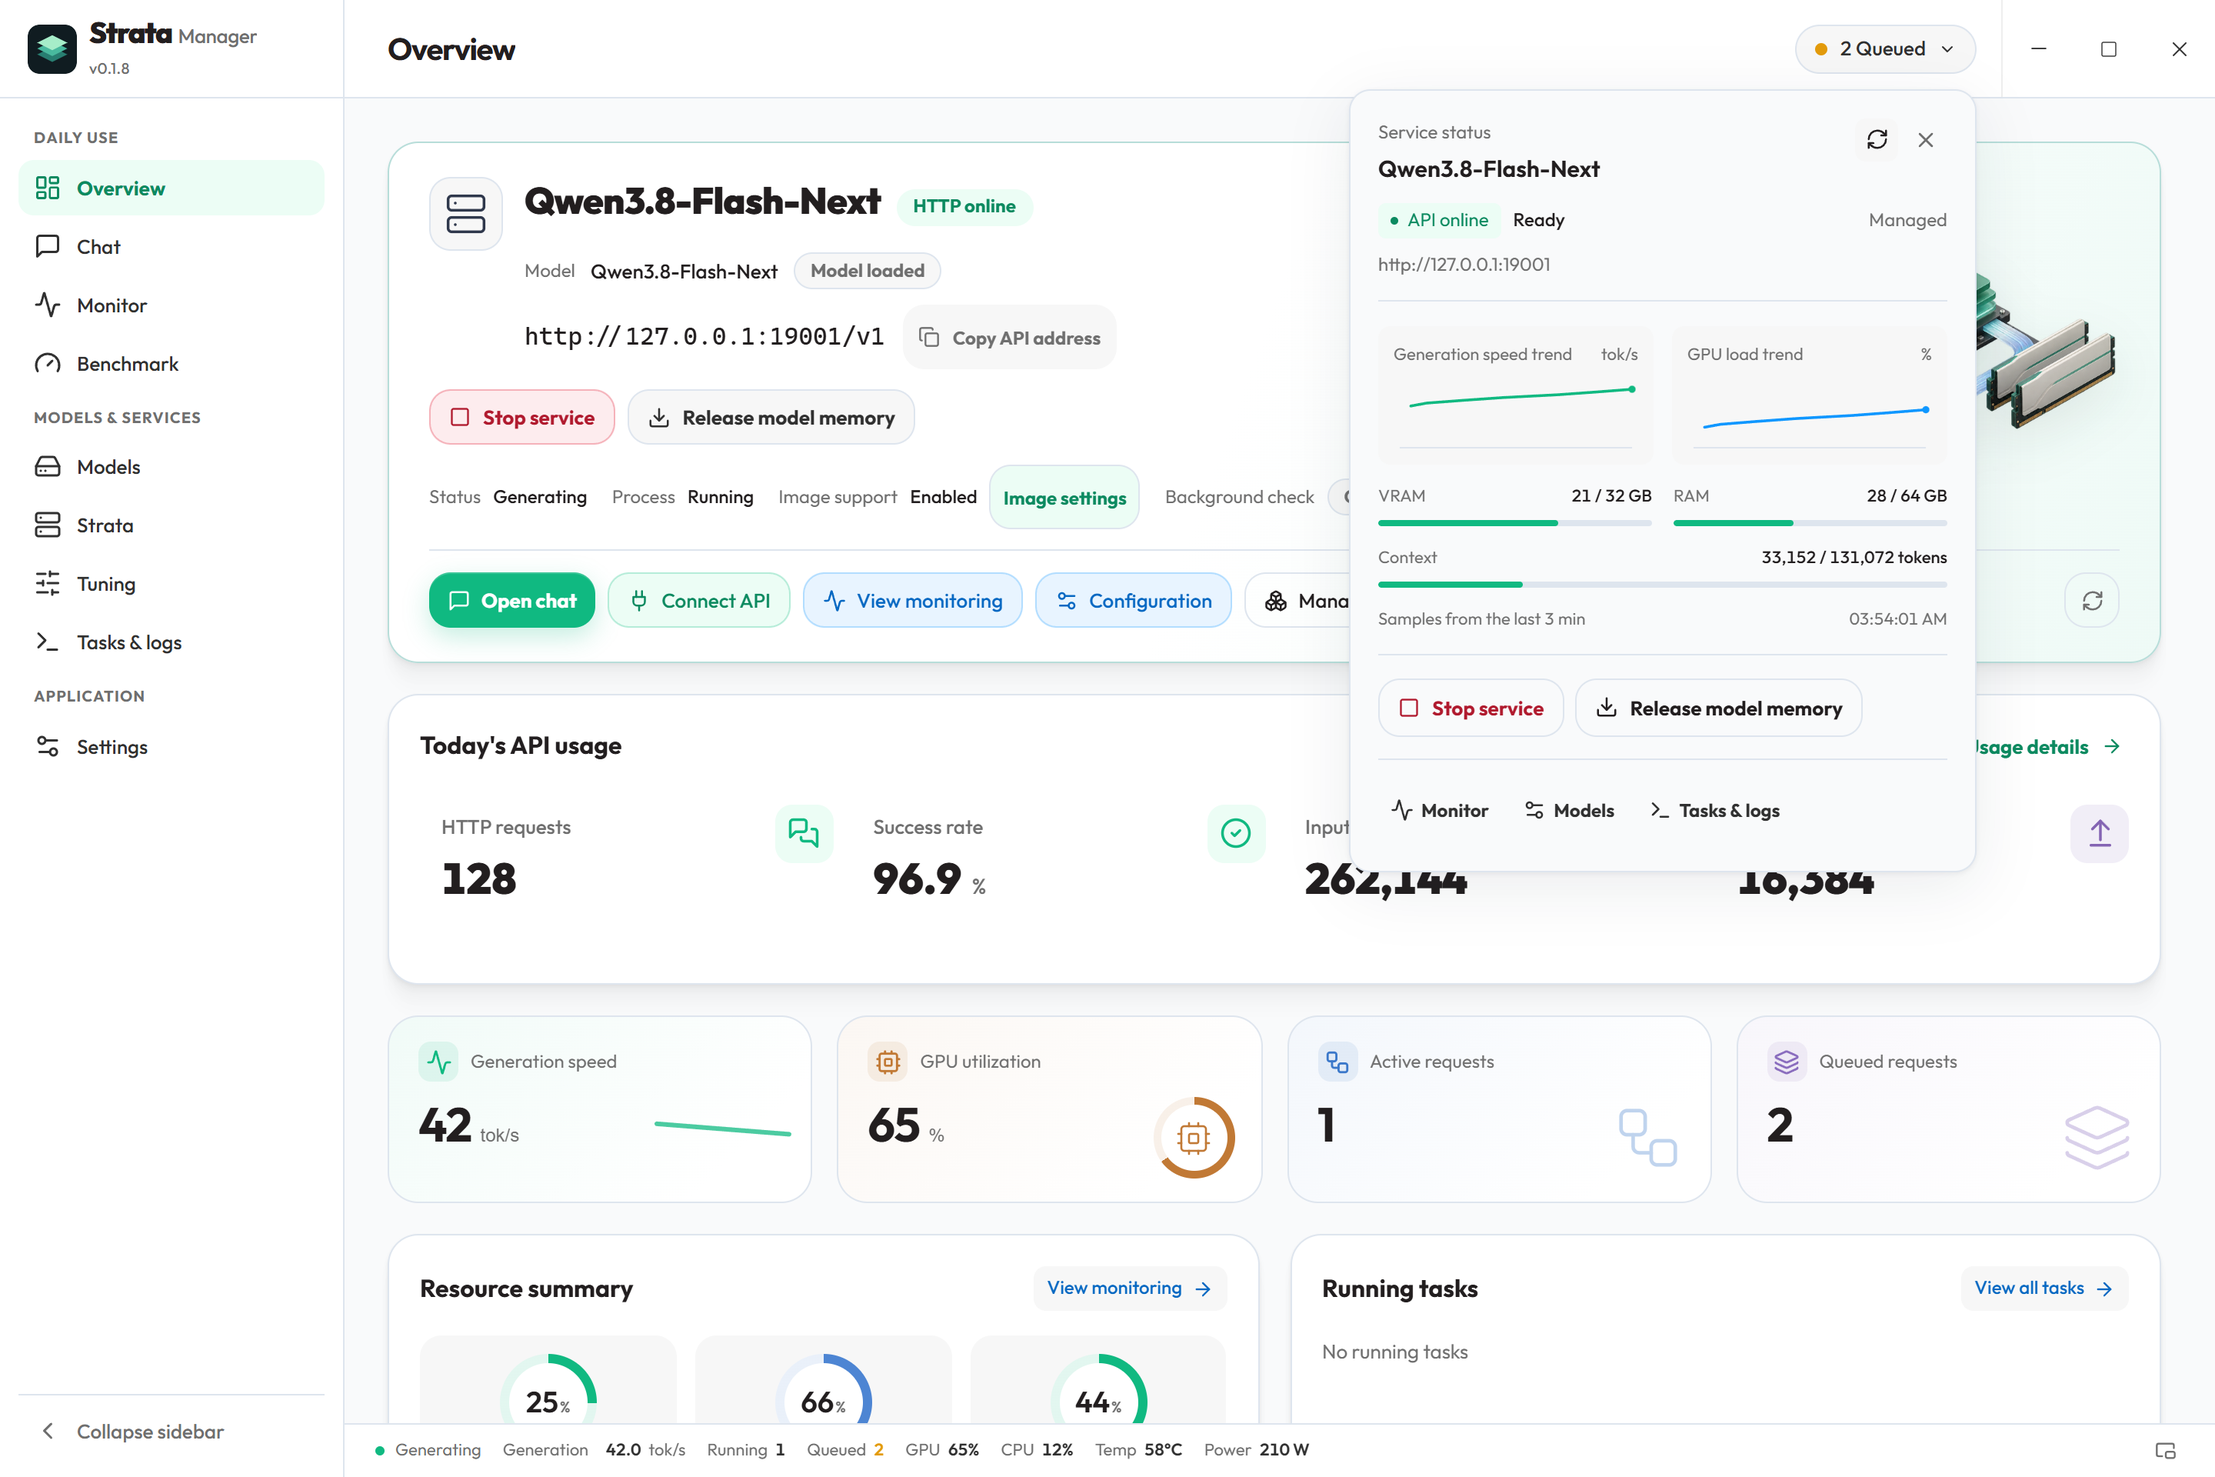
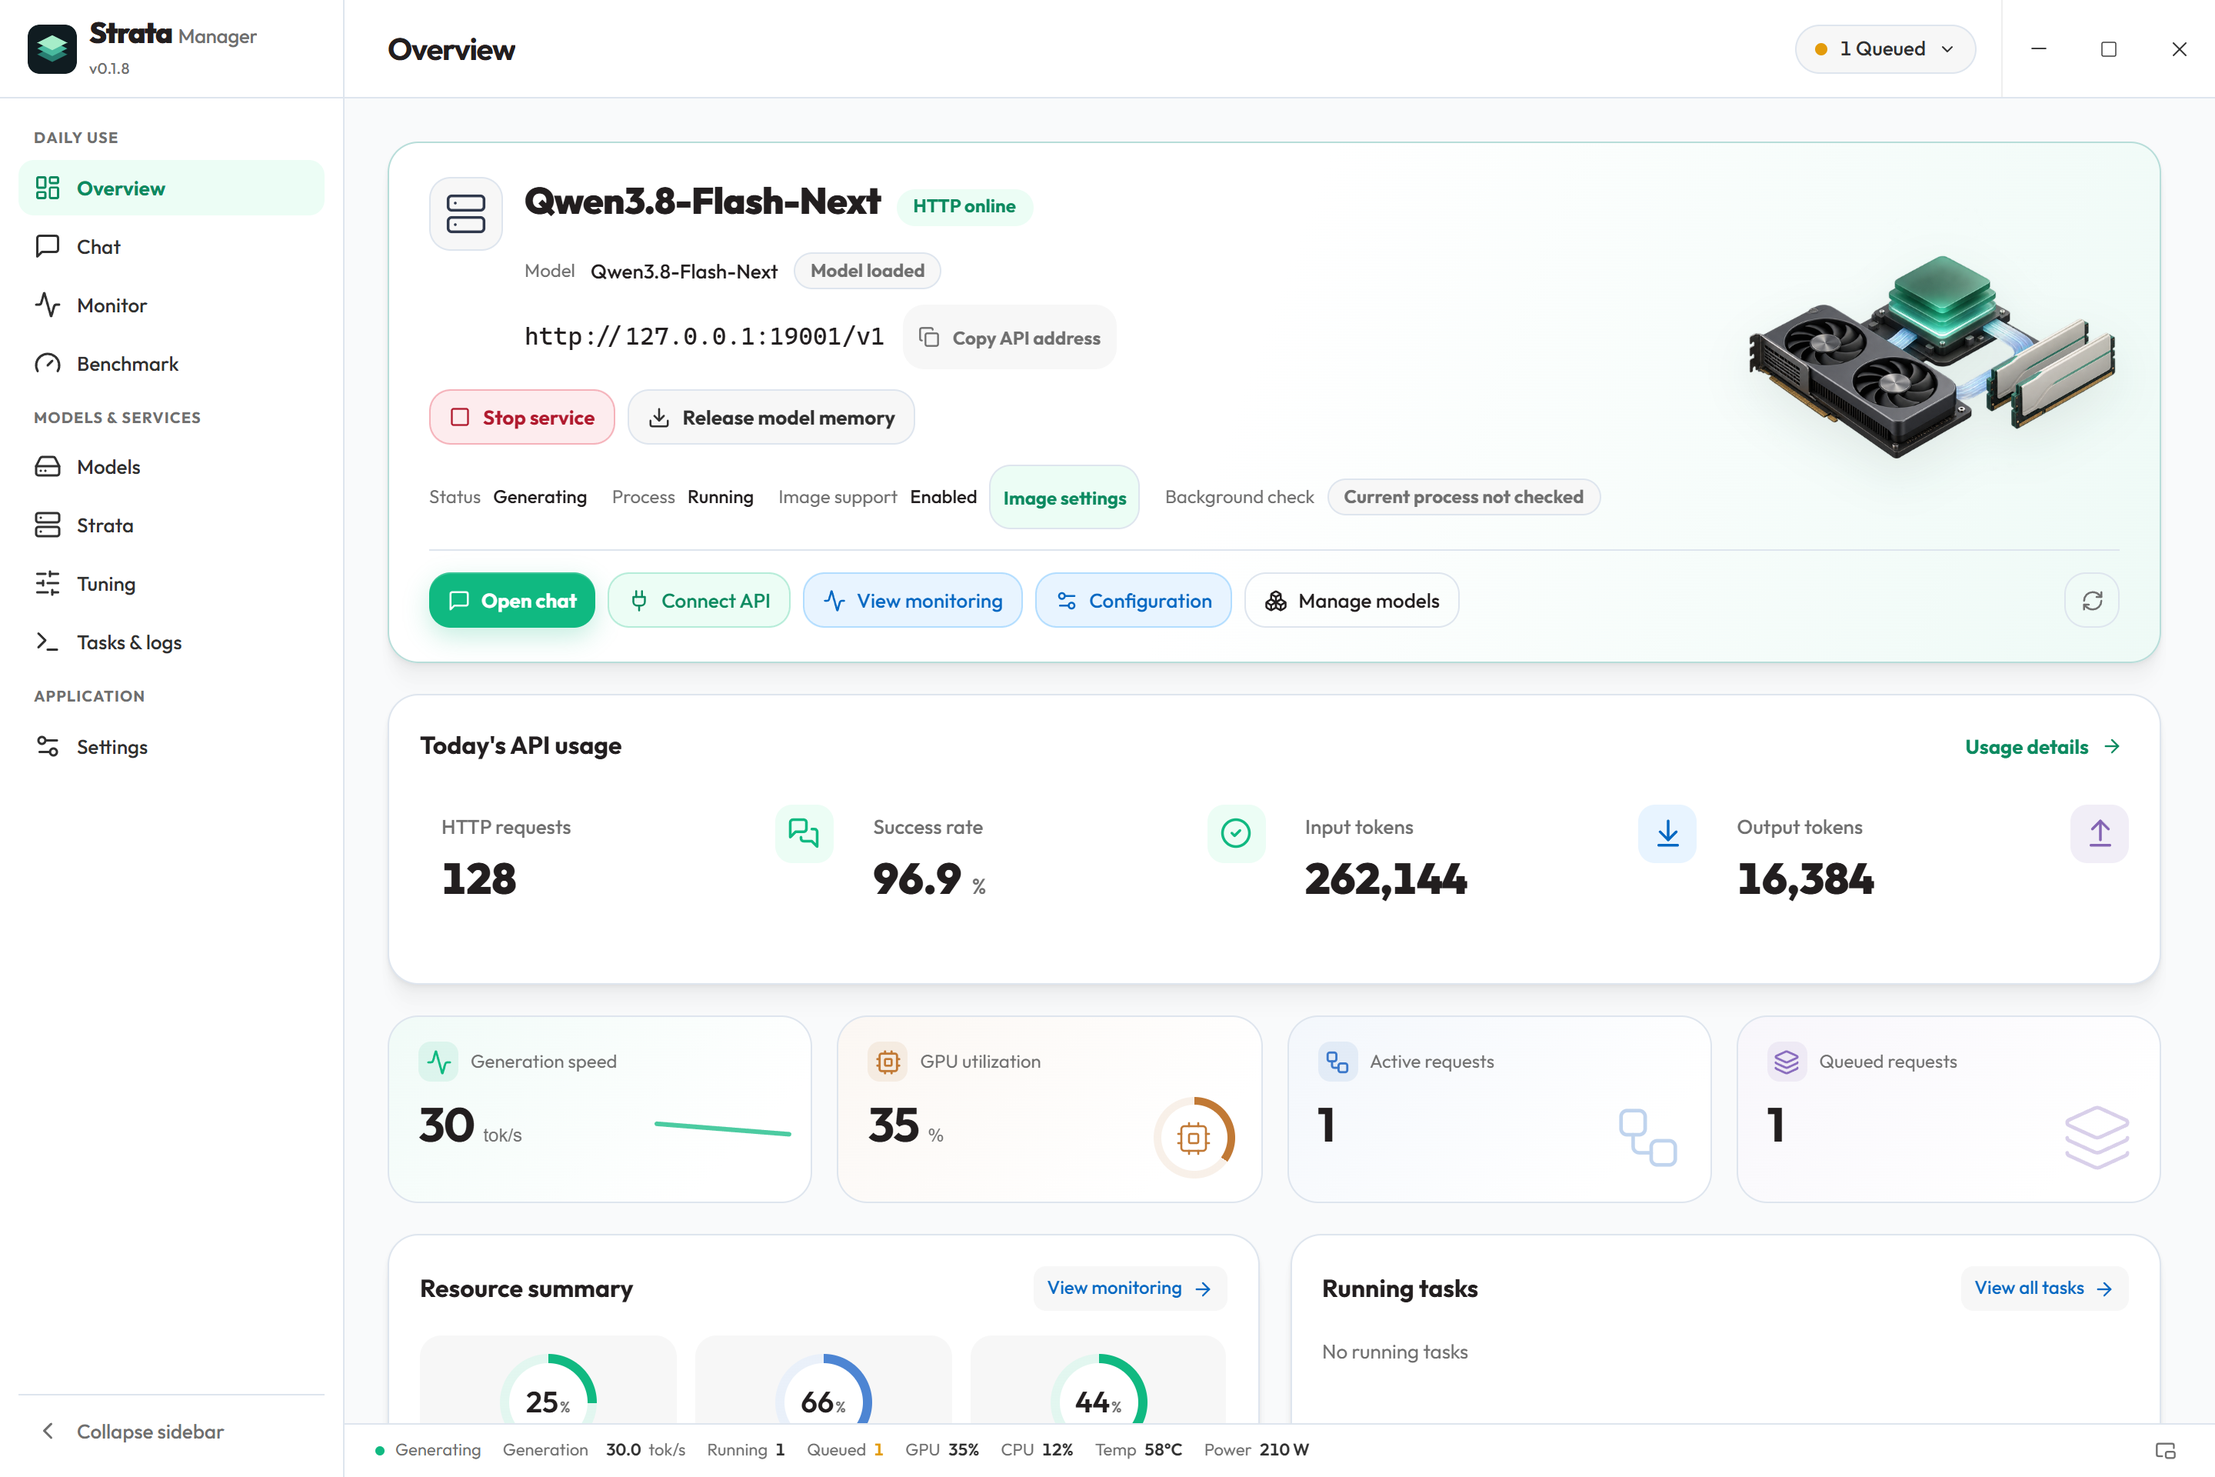
fix: satisfy current Clippy and use the normal overview cover

diff --git a/website/index.html b/website/index.html
@@ -26,7 +26,7 @@
   <meta property="og:locale" content="zh_CN" id="og-locale">
   <meta property="og:locale:alternate" content="en_US" id="og-locale-alternate">
   <meta property="og:image" content="https://hongfaqiu.github.io/strata-manager/assets/screenshots/product-cover.zh.webp" data-content-en="https://hongfaqiu.github.io/strata-manager/assets/screenshots/product-cover.en.webp">
-  <meta property="og:image:alt" content="Strata Manager 完整总览与展开的服务状态弹层" data-content-en="Strata Manager complete Overview with the service-status popover open">
+  <meta property="og:image:alt" content="Strata Manager 完整总览" data-content-en="Strata Manager complete Overview">
   <meta name="twitter:card" content="summary_large_image">
   <meta name="twitter:title" content="Strata Manager · Strata 大模型管理与监控" data-content-en="Strata Manager · Local LLM Management &amp; Monitoring for Strata">
   <meta name="twitter:description" content="集中准备 Strata 环境、管理模型与服务、共享聊天参数、配置 API/MCP 接入，并查看监控、调优和 Benchmark 报告。" data-content-en="Prepare Strata, manage models and services, share chat defaults, configure API/MCP connections and review monitoring, tuning and Benchmark reports.">
@@ -113,8 +113,8 @@
           </div>
           <p class="hero-platforms"><span class="platform-dot" aria-hidden="true"></span><span data-en="Open source · Windows / Linux x64">开源免费 · Windows / Linux x64</span></p>
         </div>
-        <a class="hero-cover open-lightbox-btn" id="hero-preview-link" href="assets/screenshots/product-cover.zh.webp?v=20261014" data-href-en="assets/screenshots/product-cover.en.webp?v=20261014" data-target="overview" aria-label="放大查看总览与服务状态弹层" data-label-en="Enlarge Overview and its service-status popover">
-          <img id="hero-preview-img" src="assets/screenshots/product-cover.zh.webp?v=20261014" data-src-en="assets/screenshots/product-cover.en.webp?v=20261014" width="2880" height="1920" alt="Strata Manager 完整总览与展开的服务状态弹层" data-alt-en="Strata Manager complete Overview with the service-status popover open" fetchpriority="high">
+        <a class="hero-cover open-lightbox-btn" id="hero-preview-link" href="assets/screenshots/product-cover.zh.webp?v=20261014" data-href-en="assets/screenshots/product-cover.en.webp?v=20261014" data-target="overview" aria-label="放大查看完整总览" data-label-en="Enlarge the complete Overview">
+          <img id="hero-preview-img" src="assets/screenshots/product-cover.zh.webp?v=20261014" data-src-en="assets/screenshots/product-cover.en.webp?v=20261014" width="2880" height="1920" alt="Strata Manager 完整总览" data-alt-en="Strata Manager complete Overview" fetchpriority="high">
           <span class="hero-preview-caption"><span data-en="0.1.8 release candidate · Pending publication · October 14, 2026">0.1.8 候选界面 · 待发布 · 2026-10-14</span><span class="preview-expand"><span data-en="Enlarge interface">放大查看</span><svg class="icon" aria-hidden="true"><use href="#icon-expand"/></svg></span></span>
         </a>
       </div>

diff --git a/website/app.js b/website/app.js
@@ -128,17 +128,17 @@ const strataReleaseCatalog = (() => {
   const screens = {
     "overview": {
       "index": "00",
-      "image": "product-cover",
+      "image": "overview",
       "zh": {
-        "title": "总览与服务状态。",
-        "description": "查看总览及展开的服务状态面板；截图使用演示数据。",
-        "alt": "Strata Manager 总览与已展开的服务状态弹层，包含模型、API 用量和运行指标的演示数据",
+        "title": "完整总览。",
+        "description": "查看模型、API 用量与资源状态；截图使用隔离示例数据。",
+        "alt": "Strata Manager 完整总览，包含模型、API 用量与资源状态的隔离示例数据",
         "badge": "总览"
       },
       "en": {
-        "title": "Overview and service status.",
-        "description": "View the overview with its service status panel open; the screenshot uses demonstration data.",
-        "alt": "Strata Manager overview with the service status popover open, showing demonstration model, API usage and runtime metrics",
+        "title": "Complete Overview.",
+        "description": "View models, API usage and resource status; the screenshot uses isolated example data.",
+        "alt": "Strata Manager complete Overview with isolated example models, API usage and resource status",
         "badge": "OVERVIEW"
       }
     },

diff --git a/apps/desktop/src-tauri/src/taskbar_layout.rs b/apps/desktop/src-tauri/src/taskbar_layout.rs
@@ -60,7 +60,7 @@ pub(crate) fn vacant_rect(
         .collect();
     // Prefer the space nearest the notification area. Sort by RIGHT edge:
     // sorting by left edges could miss a wider, nested obstacle behind one.
-    spans.sort_unstable_by(|a, b| b.1.cmp(&a.1));
+    spans.sort_unstable_by_key(|span| std::cmp::Reverse(span.1));
     let start = i64::from(bar.left) + gap;
     let mut end = i64::from(bar.right) - gap;
     for (left, right) in spans {

diff --git a/docs/screenshots/README.md b/docs/screenshots/README.md
@@ -11,9 +11,9 @@ This directory's root contains the current README and website gallery: **46 page
 | 根目录 / Root | 总览、运行环境、模型与配置、聊天、用量、调优、监控、设置、关于、Benchmark、公共聊天、连接、会话工具、更新、服务状态、下载设置、浮条，以及运行中服务、语言选择、浮条设置、场景测试和结果报告 / Overview, runtime, models and configuration, chat, usage, tuning, monitoring, settings, About, Benchmark, common chat, connections, session tools, updates, service status, download settings, floating monitor, running services, language selection, monitor settings, scenario tests and reports | [manifest.json](manifest.json) |
 | `daily-experience/` | 当前重拍的 16 张日常工作流程图：模型下载列表与详情、API 验证、服务能力、启动诊断、聊天计时、历史条件比较、API 用量 / 16 refreshed workflow images covering model downloads, API verification, capabilities, startup diagnostics, chat timing, history comparison and API usage | [独立 manifest / Separate manifest](daily-experience/manifest.json) |
 
-封面 `product-cover.zh.webp` 与 `product-cover.en.webp` 使用对应语言的 `service-status` 完整截图：总览及展开的服务状态弹层，保持原始比例，不裁剪、拼接或重画。`product-cover.webp` 是英文兼容别名；封面与页面图分别记入 manifest。
+封面 `product-cover.zh.webp` 与 `product-cover.en.webp` 直接使用对应语言的 `overview` 完整截图：正常总览，右上角服务状态保持收起，保留原始比例，不裁剪、拼接或重画。以后重拍首页封面沿用这一状态；`service-status` 独立功能图可展开弹层。`product-cover.webp` 是英文兼容别名；封面与页面图分别记入 manifest。
 
-The bilingual covers, `product-cover.zh.webp` and `product-cover.en.webp`, use the complete corresponding `service-status` screenshots: Overview with its service-status popover open, preserving the original proportions without cropping, composition or redrawing. `product-cover.webp` is the English compatibility alias. The manifest records covers separately from page images.
+The bilingual covers, `product-cover.zh.webp` and `product-cover.en.webp`, directly use the complete corresponding `overview` screenshots: normal Overview with the top-right service status closed, preserving the original proportions without cropping, composition or redrawing. Future homepage-cover captures keep this state; the separate `service-status` feature images may show the popover open. `product-cover.webp` is the English compatibility alias. The manifest records covers separately from page images.
 
 ## 采集与重跑 / Capture and reproduction
 

diff --git a/docs/VERIFICATION.md b/docs/VERIFICATION.md
@@ -4,6 +4,7 @@
 
 - 候选包含 Windows 运行中服务连接与托管保护、系统语言和十种随包资源、监控浮条布局与显示控制、自动载入进度、设置工作区及总览图形更新。此记录写于公开发布前；最终安装包以对应版本的完整 CI、签名发布和公开资源核验为准。
 - Core **434/434**、Desktop **135/135**、脚本 **23/23**；TypeScript 与前端生产构建通过。Rust 格式及 workspace/all-targets Clippy 通过。发布门禁 **258/258**；原生分片与缓存策略回归 **43/43**。
+- 第一轮候选 CI `f9fa71a3e9f7c8de26ab46f354311525a2636880` 在 Windows/Linux 的 Rust 检查被 Rust 1.99 新增的排序写法检查阻断。将内部任务栏布局的降序比较改为等价的 `sort_unstable_by_key(Reverse(...))`，保留所有门禁和排序规则；新源码必须重新完成十个 CI job，不能复用失败候选的产物。这一原生写法调整不改变已捕获的 React 界面或示例数据。
 - 本地 Windows 原生检查合计 **642 个唯一测试通过、15 项明确忽略**。首次完整运行的五项 request-capture 失败源于缺少 CI 固定上游 fixture；补齐 `fb58e0dbc8399662c0e47c76578c6e878b14f6cf` 并核验原始源码字节后，该模块 **9/9** 通过。剩余 supervisor/update-verifier **11/11** 与四个 workspace 文档测试目标分别完成。此合并结果不是一次完整运行全绿，也不是 CI 或安装包验收；本地汇总保存在 `output/release-v0.1.8/native-verification-aggregate.json`。
 - Windows ignored 清单由原十四项增加为十五项，仅登记新增的“用户显式指定真实运行服务的只读所有者验收”。Linux 七项、全部已有测试、严格清单比对、超时与分片规则保持不变。实际 Windows libtest 枚举 **657 项**，与本轮清单完全一致。
 - 固定 Strata 0.1.43.1 MockEngine HTTP observer **36/36**、自动服务连接浏览器 **3/3**、系统语言浏览器 **18/18** 通过；均使用隔离数据或临时目录，未通过这些用例启动真实模型。

diff --git a/README.md b/README.md
@@ -25,9 +25,9 @@
 
 **Strata Manager is an open-source desktop management app for [Niko1221/Strata](https://github.com/Niko1221/Strata), a local large language model inference engine.** It brings runtime setup, model configurations, service controls, chat, monitoring, tuning and benchmarking into one workspace. Existing supported model weights stay in place.
 
-[![Strata Manager overview with the service-status popover open](docs/screenshots/product-cover.en.webp)](https://raw.githubusercontent.com/hongfaqiu/strata-manager/main/docs/screenshots/product-cover.en.webp)
+[![Strata Manager complete Overview with the top-right service status closed](docs/screenshots/product-cover.en.webp)](https://raw.githubusercontent.com/hongfaqiu/strata-manager/main/docs/screenshots/product-cover.en.webp)
 
-<sub>0.1.8 release candidate interface, refreshed on October 14, 2026. Publication is pending. Screenshots use the actual application and components with isolated example data; displayed values are not inference results or benchmarks. Click to view the original.</sub>
+<sub>0.1.8 release candidate interface, refreshed on October 14, 2026. The homepage cover shows the complete Overview with the top-right service status closed. Publication is pending. Screenshots use the actual application and components with isolated example data; displayed values are not inference results or benchmarks. Click to view the original.</sub>
 
 ## What is Strata, and what does Manager do?
 

diff --git a/README.zh-CN.md b/README.zh-CN.md
@@ -25,9 +25,9 @@
 
 **Strata Manager 是面向 [Niko1221/Strata 本地大模型推理引擎](https://github.com/Niko1221/Strata) 的开源桌面管理工具。** 将运行环境准备、模型配置、服务控制、聊天、监控、调优与基准测试集中到同一工作台，降低 Strata 的使用门槛。已有受支持的模型权重保持原位。
 
-[![Strata Manager 总览与展开的服务状态弹层](docs/screenshots/product-cover.zh.webp)](https://raw.githubusercontent.com/hongfaqiu/strata-manager/main/docs/screenshots/product-cover.zh.webp)
+[![Strata Manager 完整总览，右上角服务状态收起](docs/screenshots/product-cover.zh.webp)](https://raw.githubusercontent.com/hongfaqiu/strata-manager/main/docs/screenshots/product-cover.zh.webp)
 
-<sub>0.1.8 发布候选界面，2026 年 10 月 14 日重新采集，尚待公开发布。截图由实际应用与组件配合隔离示例数据渲染；显示数值不代表推理结果或性能测试。点击可查看原图。</sub>
+<sub>0.1.8 发布候选界面，2026 年 10 月 14 日重新采集，尚待公开发布。首页封面为完整总览，右上角服务状态保持收起。截图由实际应用与组件配合隔离示例数据渲染；显示数值不代表推理结果或性能测试。点击可查看原图。</sub>
 
 ## Strata 是什么，Manager 负责什么？
 

diff --git a/README.en.md b/README.en.md
@@ -6,7 +6,7 @@ Strata Manager is an open-source desktop workspace for [Strata](https://github.c
 
 [Website](https://hongfaqiu.github.io/strata-manager/en/) · [Documentation](https://hongfaqiu.github.io/strata-manager/docs/index.en.html) · [Latest stable release](https://github.com/hongfaqiu/strata-manager/releases/latest) · [Changelog](CHANGELOG.md)
 
-The full English README and real interface screenshots are maintained in [README.md](README.md). Download the app from the [website download section](https://hongfaqiu.github.io/strata-manager/en/#get-started) and follow changes in the [website changelog](https://hongfaqiu.github.io/strata-manager/docs/changelog.en.html).
+The full English README and real interface screenshots are maintained in [README.md](README.md). Its homepage cover shows the complete Overview with the top-right service status closed. Download the app from the [website download section](https://hongfaqiu.github.io/strata-manager/en/#get-started) and follow changes in the [website changelog](https://hongfaqiu.github.io/strata-manager/docs/changelog.en.html).
 
 This compatibility entry keeps existing English README links working.
 
